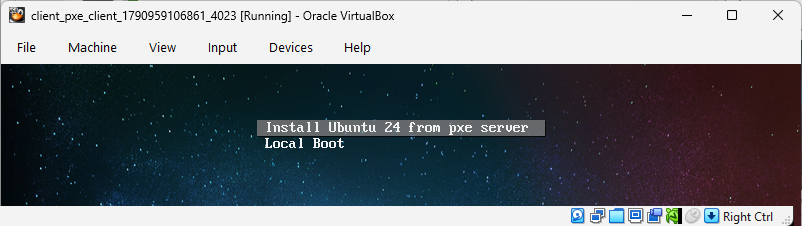
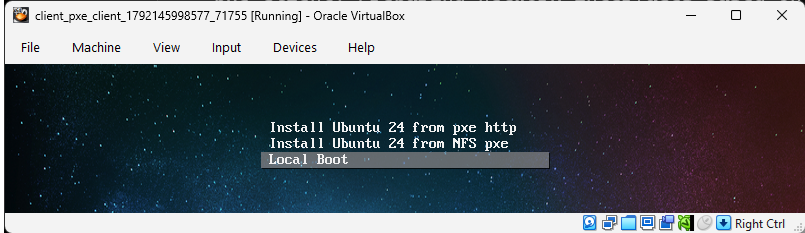
session 4 complete

diff --git a/sessions/session4/vagrant-examples/vagrant-pxe/README.md b/sessions/session4/vagrant-examples/vagrant-pxe/README.md
@@ -10,9 +10,9 @@ It is designed to learn and test cloning solutions, nfsroot, syslinux, etc...
 **Exercise 4.1**
 
 Follow the notes below to run a PXE server and a PXE client to simulate an installation of an operating system onto a bare metal server
-* Make sure you undertand what the server is doing
+* Make sure you understand what the server is doing
 * Try booting the client into Rocky Linux first
-* Restart and let the client install Ubuntu
+* Restart and let the client install Ubuntu either using the HTTP or NFS selection.
 * Now restart the client and do a local boot - it should start up Ubuntu from disk. 
 
 ---
@@ -28,7 +28,10 @@ This will take about 15 minutes.
 Once you have done this, as long as the iso is present, the example will not need to do it again. 
 You can speed things up if you already have the ubuntu-24.04.5-live-server-amd64.iso and place it in the directory.
 
-Note that all `.iso` files are excluded from git by the `.gitignore` file
+Note that all `.iso` files are excluded from git by the `.gitignore` file.
+
+Setting up the NFS mount point will also take some time so start up the server early and get a coffee until it completes :).
+It should take much less time to set up if you later halt and restart the machine without destroying it.
 
 ## start client server
 
@@ -41,35 +44,51 @@ vagrant up
 
 The client first loads a rocky linux box. 
 
-We are actually going to pxe boot an ubuntu machine but vagrant needs a box to start up.
+We are actually going to pxe boot an ubuntu machine but vagrant still needs a box to start up even though it isn't used in this case.
 
 Looking at the virtualbox ui for the client machine, you will see it first attempts a pxe boot using the pxe boot server.
 
 <img src="../../docs/images/pxe-boot-menu.png" alt="pxe-boot-menu.png" width="50%"/>
 
-You will be presented with a menu for either selecting `Install ubuntu server from pxe boot` or `Local Boot`.
+You will be presented with a menu for either selecting 
+
+`Install ubuntu server from pxe http` or 
+`Install ubuntu server from NFS pxe`
+or `Local Boot`.
 
 If you choose to `Local Boot` at this point, you will boot into rocky linux which has already been installed in the drive by vagrant.
 
-If you choose `Install ubuntu server from pxe boot`, the pxe boot installation process will start and will overwrite rocky linux on the disk with ubuntu.
+The `Install ubuntu server from pxe http` option will download an ubuntu iso into memory from the local `nginx` server.
+This download will take some time and requires about 16Gb of RAM to be on the server to simulate a RAM disk.
 
-Once the installation process has completed, the machine will reboot and will present you with the original pxe boot screen.
-However if you choose `Local Boot`, you will now boot into the newly installed Ubuntu server.
+Alternatively, if you choose `Install ubuntu server from pxe nfs`, the pxe boot will use intallation files served using an NFS mount. 
+In this case, less memory is required but the tradeoff is that it takes a lot of time and memory to configure the NFS mount point on the PXE server.
+
+In both cases, the pxe boot installation process will start and will overwrite rocky linux on the disk with ubuntu using the `cloud init` configuration.
+
+Once the installation process has completed, the client machine will shutdown.
+
+In order to reboot the client  machine, use `vagrant halt` (even though the machine has already stopped), then `vagant up` to reboot it.
+
+You will be presented with the original pxe boot screen.
+DO NOT let the pxe installation proceed. 
+Instead, if you choose `Local Boot`, the system will now boot into the newly installed Ubuntu server as the Rocky installation no longer exists.
 
 You can log into the Ubuntu server using the credentials
 
 user: ansible
 password: minad1234
 
-(Note that the vagrant command line will appear to fail or time out because it cannot SSH into the machine since it no longer is a vagrant box).
+(Note that the vagrant command line will appear to fail or time out because vagrant cannot SSH into the machine since it no longer is a vagrant box and does not have a vagrant account).
 
 
 ---
 **Exercise 4.2**
 
 Install ansible on the pxe server and use it to install apache on the new Ubuntu machine
-* modify the pxe-server vagrant script  to provision an ansible user and to install ansible on the pxe server
-* create and test an ansible script to install apache on the new Ubuntu machine
+* modify the pxe-server vagrant script  to provision an ansible user with ssh keys and to install ansible on the pxe server
+* create and test an ansible script to install apache on the new Ubuntu client machine (you should be able to reuse some of the configurations from session 2)
+* note that the new ansible account on the client only has a password. How might you automate setting it up to use ssh certificate based authentication?
 
 ---
 
